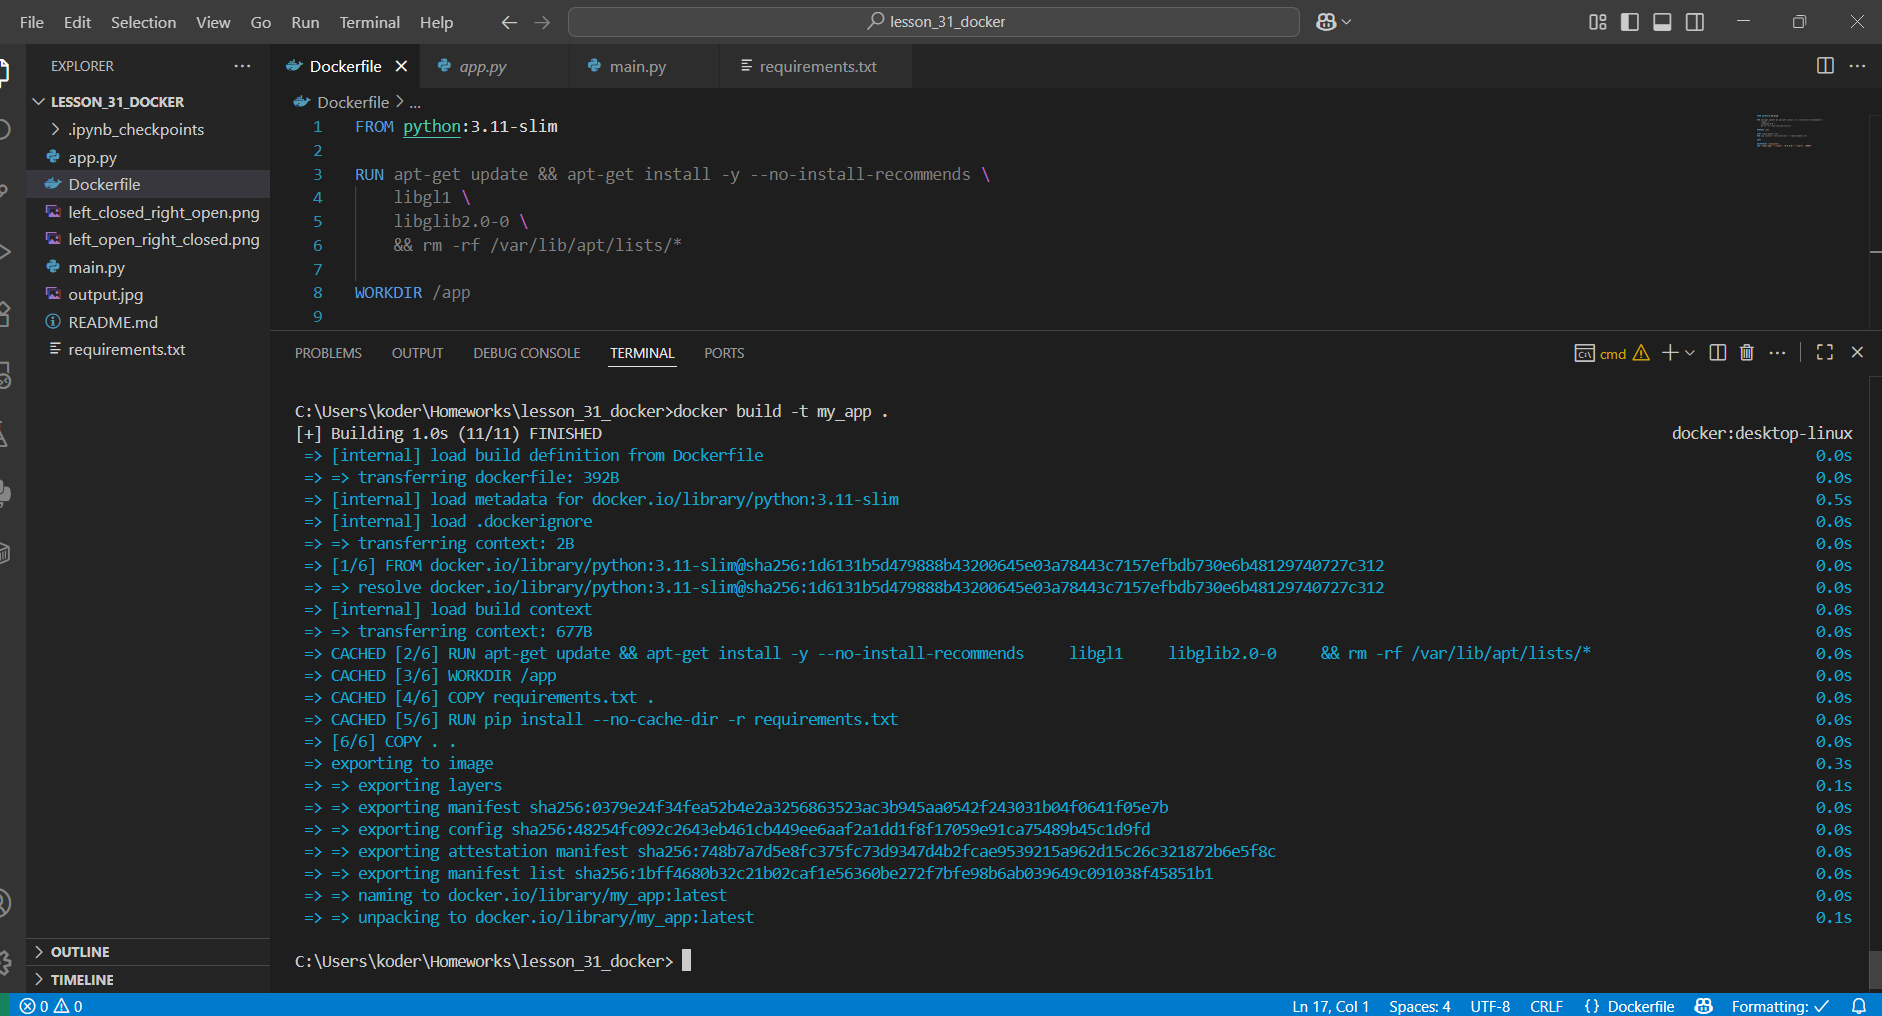
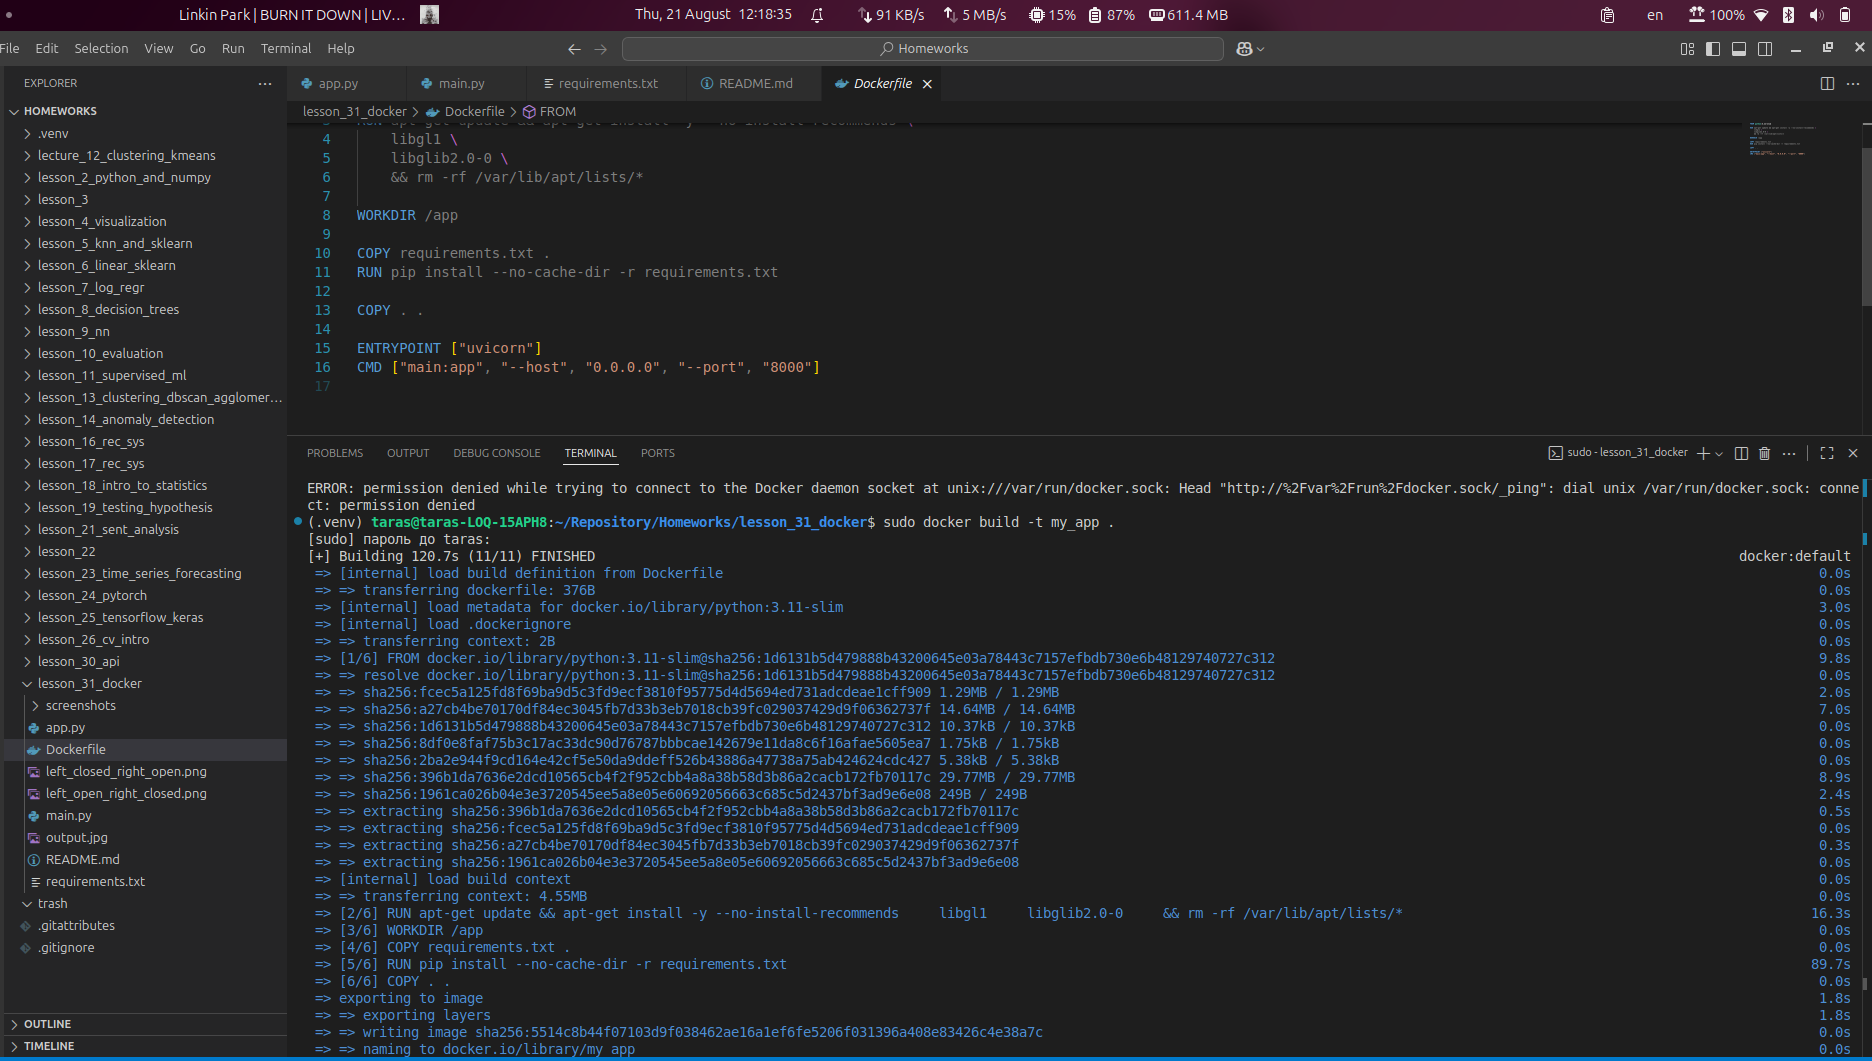
Completed homework 31

diff --git a/lesson_31_docker/test_app.py b/lesson_31_docker/test_app.py
@@ -1,0 +1,2 @@
+if __name__ == "__main__":
+    print("Hello World!")

diff --git a/lesson_31_docker/README.md b/lesson_31_docker/README.md
@@ -1,53 +1,46 @@
 # Eye State Detection
 
-## Overview
+## Запуск контейнера
 
-    Ця програма відстежує чи очі відкриті чи закриті на зображенні з допомогою MediaPipe Face Mesh. В якості API використовується FastAPI.
+### 1. Збірка Docker-образу
 
-## Deployment Info
+```bash
+docker build -t my_app .
+```
 
-    Для запуску використовується unicorn:
+---
 
-    ```uvicorn main:app --reload```
+### 2. Запуск FastAPI
 
-    Після запуску сервер буде доступний за адресою http://127.0.0.1:8000
+```bash
+docker run -p 8000:8000 my_app
+```
 
-## Installation Instructions
+Відкриваємо в браузері:
+[http://localhost:8000/docs](http://localhost:8000/docs)
 
-    Клонуйте репозиторій або скопіюйте файли у вашу папку.
+---
 
-    Встановіть залежності:
+У контейнері можна запускати інші Python-скрипти, наприклад:
 
-    pip install -r requirements.txt
+```bash
+docker run my_app test_app.py
+```
 
-## Modeling Info
+### Скріншоти
 
-    Використовується MediaPipe Face Mesh для отримання ключових точок обличчя.
+#### Створення білда Docker
 
-    Для оцінки стану очей використовується Eye Aspect Ratio (EAR), з його допомогою розраховується відстань між ключовими точками. Око вважається відкритим якщо його значення більше 0.244
+![Buid](screenshots/buid.png)
 
-## Interface Description
+#### Запуск додатка
 
-    Endpoint: POST /detect_eyes/
+![Run](screenshots/run.png)
 
-    Опис: Приймає зображення, повертає стал лівого і правого ока і шлях до збереженого зображення з підписами.
+#### WebAPI
 
-    Вхідні дані: file — зображення в форматі jpg/png.
+![WebAPI](screenshots/webapi.png)
 
-    Вихідні дані: JSON
+#### Результати виконання програми
 
-    Приклад відповіді:
-
-        ```{
-        "left_eye_state": "open",
-        "right_eye_state": "closed",
-        "left_EAR": 0.278,
-        "right_EAR": 0.190,
-        "output_image": "output.jpg"
-        }```
-
-    Якщо обличчя не знайдено, повертається:
-
-        ```{
-        "error": "No face detected"
-        }```
+![Result](screenshots/result.png)
